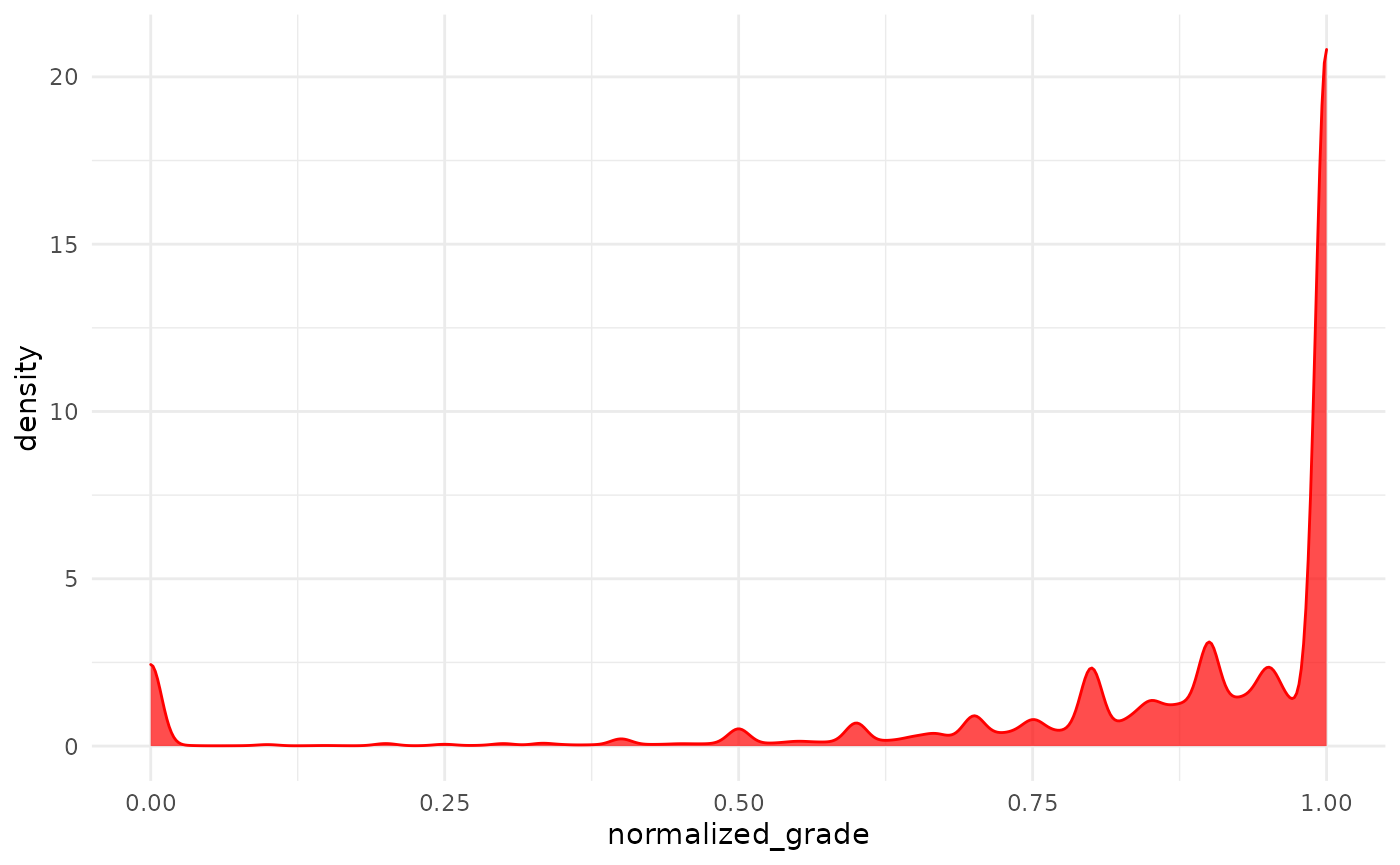
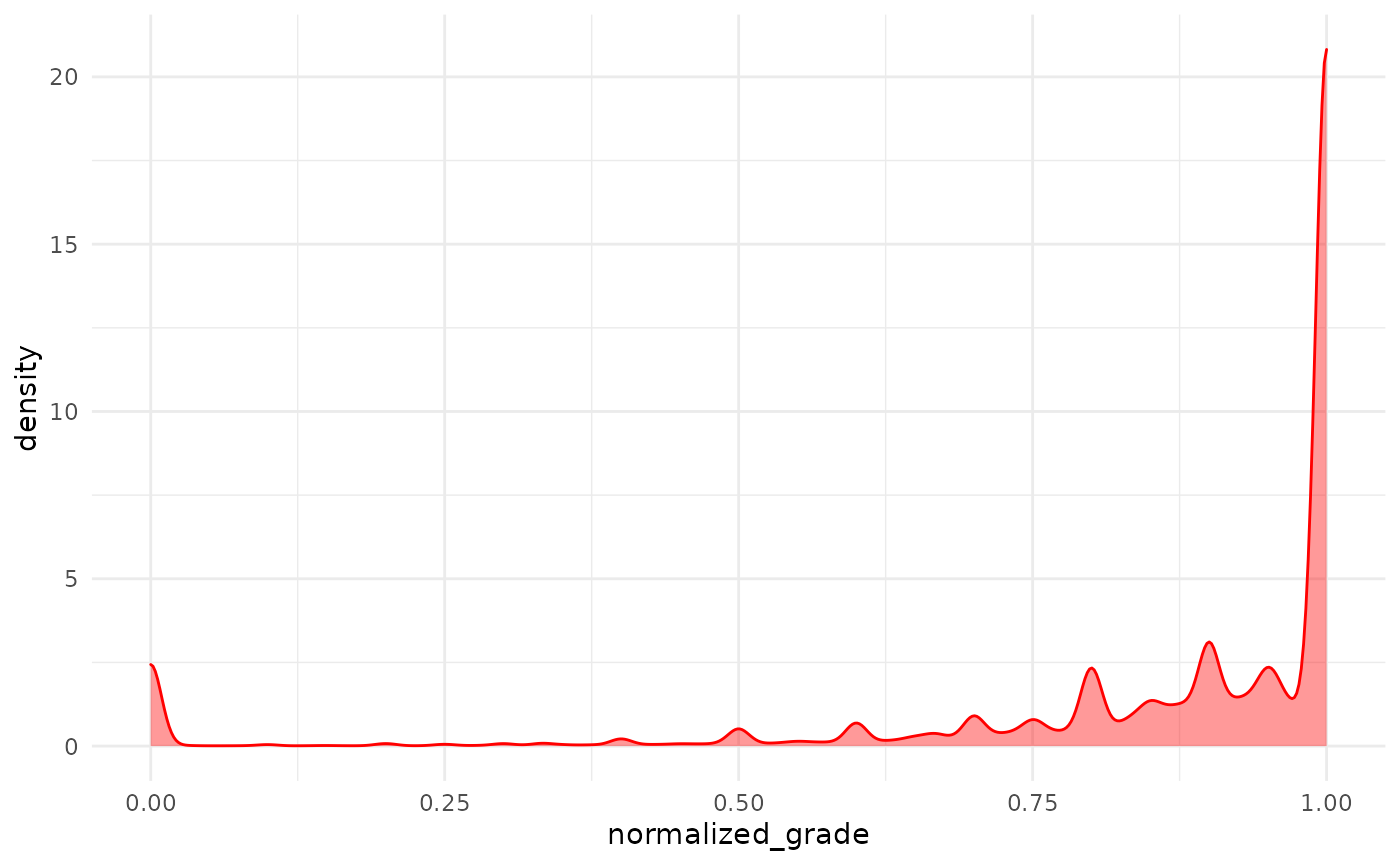
nitpicks

Changed region(s): [[0.4914, 0.1249, 0.9521, 0.874], [0.0921, 0.7803, 0.1229, 0.874], [0.43, 0.8428, 0.4607, 0.874]]

diff --git a/docs/articles/analysis-of-grades.html b/docs/articles/analysis-of-grades.html
@@ -71,13 +71,13 @@
     <li class="divider">
     <li class="dropdown-header">Examples &amp; Recipes</li>
     <li>
-      <a href="../articles/analysis-of-grades.html">Analysis of Grades</a>
-    </li>
-    <li>
       <a href="../articles/calculating-time-on-task.html">Estimating Time on Task</a>
     </li>
     <li>
-      <a href="../articles/simple-predictive-model.html">simple-predictive-model</a>
+      <a href="../articles/analysis-of-grades.html">Analysis of Grades</a>
+    </li>
+    <li>
+      <a href="../articles/forecast-example.html">Forecasting with moodleR</a>
     </li>
   </ul>
 </li>
@@ -166,7 +166,7 @@
 <div class="sourceCode" id="cb6"><pre class="downlit sourceCode r">
 <code class="sourceCode R"><span class="va">my_grades</span> <span class="op">%&gt;%</span> 
   <span class="fu"><a href="https://ggplot2.tidyverse.org/reference/ggplot.html">ggplot</a></span><span class="op">(</span><span class="fu"><a href="https://ggplot2.tidyverse.org/reference/aes.html">aes</a></span><span class="op">(</span><span class="va">normalized_grade</span><span class="op">)</span><span class="op">)</span> <span class="op">+</span>
-  <span class="fu"><a href="https://ggplot2.tidyverse.org/reference/geom_density.html">geom_density</a></span><span class="op">(</span>color<span class="op">=</span><span class="st">"red"</span>, fill<span class="op">=</span><span class="st">"red"</span>, alpha<span class="op">=</span><span class="fl">.7</span><span class="op">)</span></code></pre></div>
+  <span class="fu"><a href="https://ggplot2.tidyverse.org/reference/geom_density.html">geom_density</a></span><span class="op">(</span>color<span class="op">=</span><span class="st">"red"</span>, fill<span class="op">=</span><span class="st">"red"</span>, alpha<span class="op">=</span><span class="fl">.4</span><span class="op">)</span></code></pre></div>
 <p><img src="analysis-of-grades_files/figure-html/unnamed-chunk-6-1.png" width="700"> As we could already see from the histgram the distribution is heavily skewed toward the top, presumably because a lot of grades items have a 100% success rate.</p>
 </div>
 <div id="formal-test" class="section level3">
@@ -182,7 +182,7 @@
 <span class="co">#&gt;  Shapiro-Wilk normality test</span>
 <span class="co">#&gt; </span>
 <span class="co">#&gt; data:  .</span>
-<span class="co">#&gt; W = 0.60937, p-value &lt; 2.2e-16</span></code></pre></div>
+<span class="co">#&gt; W = 0.61793, p-value &lt; 2.2e-16</span></code></pre></div>
 <p>The <em>Shapiro-Wilk</em> tests the null-hypothesis of a sample from a normal distribution. As we can easily see this hypothesis is rejected.</p>
 </div>
 </div>
